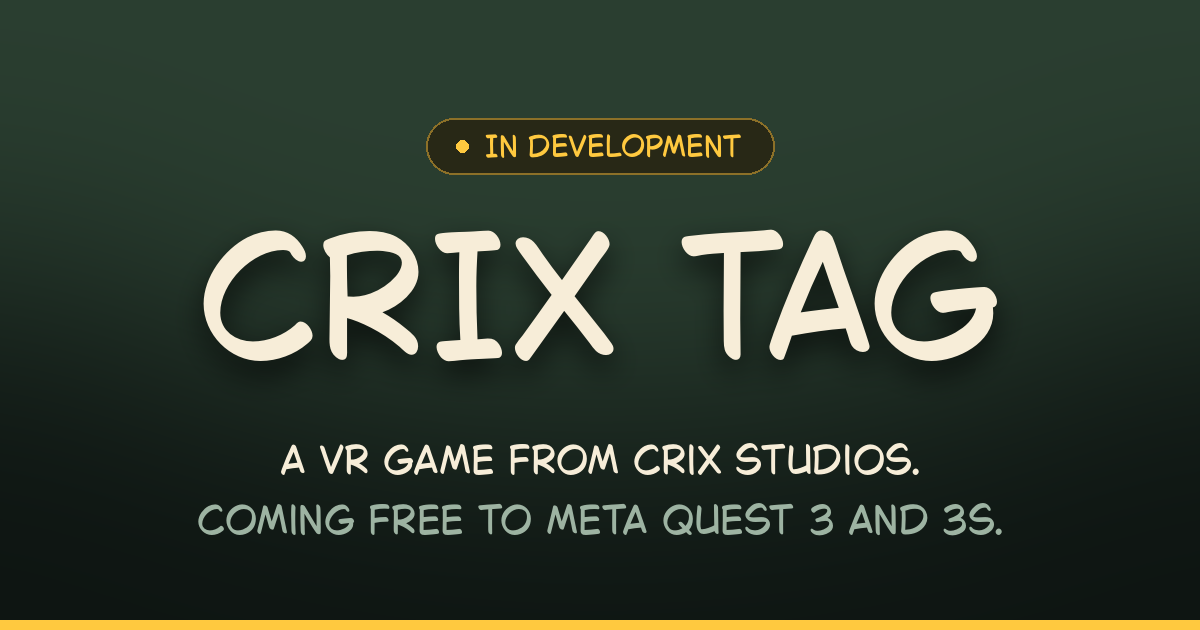
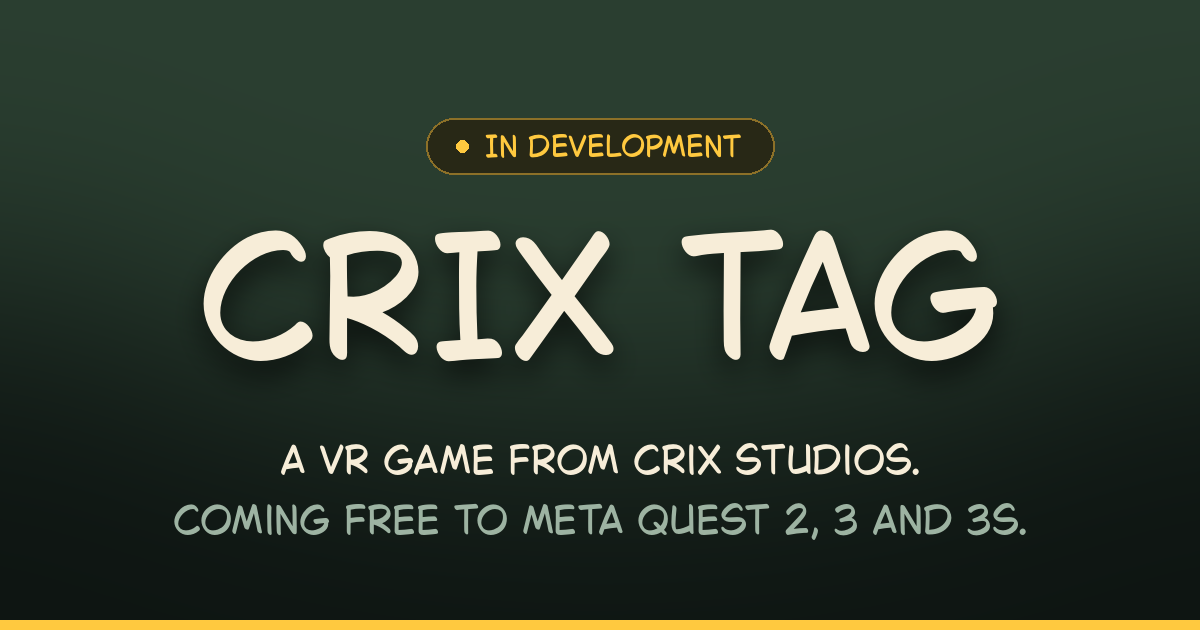
Say 10 players per room and add Quest 2 support
Update the facts strip, hero line, meta descriptions and the
share image to list Meta Quest 2, 3 and 3S and 10 players per room.

Claude-Session: https://claude.ai/code/session_012GKQuUJdneTEBQuLiTrMmt

Changed region(s): [[0.1233, 0.7841, 0.8633, 0.8746]]

diff --git a/index.html b/index.html
@@ -4,11 +4,11 @@
 <meta charset="utf-8">
 <meta name="viewport" content="width=device-width, initial-scale=1">
 <title>Crix Tag</title>
-<meta name="description" content="Crix Tag — a VR game in development by Crix Studios. Coming free to Meta Quest 3 and 3S.">
+<meta name="description" content="Crix Tag — a VR game in development by Crix Studios. Coming free to Meta Quest 2, 3 and 3S.">
 <meta name="theme-color" content="#141C17">
 
 <meta property="og:title" content="Crix Tag">
-<meta property="og:description" content="A VR game in development by Crix Studios. Coming free to Meta Quest 3 and 3S.">
+<meta property="og:description" content="A VR game in development by Crix Studios. Coming free to Meta Quest 2, 3 and 3S.">
 <meta property="og:type" content="website">
 <meta property="og:image" content="assets/og-image.png">
 <meta name="twitter:card" content="summary_large_image">
@@ -47,7 +47,7 @@
     <h1 class="wordmark">CRIX TAG</h1>
 
     <p class="tagline">A VR game from Crix Studios.</p>
-    <p class="sub">Coming free to Meta Quest 3 and 3S.</p>
+    <p class="sub">Coming free to Meta Quest 2, 3 and 3S.</p>
 
     <div class="cta-row">
       <a class="btn" href="#" data-discord>Join the Discord</a>
@@ -77,7 +77,7 @@
 <section class="facts">
   <div class="wrap">
     <div class="fact">
-      <strong>Quest 3 &amp; 3S</strong>
+      <strong>Quest 2, 3 &amp; 3S</strong>
       <span>Standalone, no PC needed</span>
     </div>
     <div class="fact">
@@ -85,7 +85,7 @@
       <span>No cost to download and play</span>
     </div>
     <div class="fact">
-      <strong>10–20 players</strong>
+      <strong>10 players</strong>
       <span>Per room</span>
     </div>
   </div>
